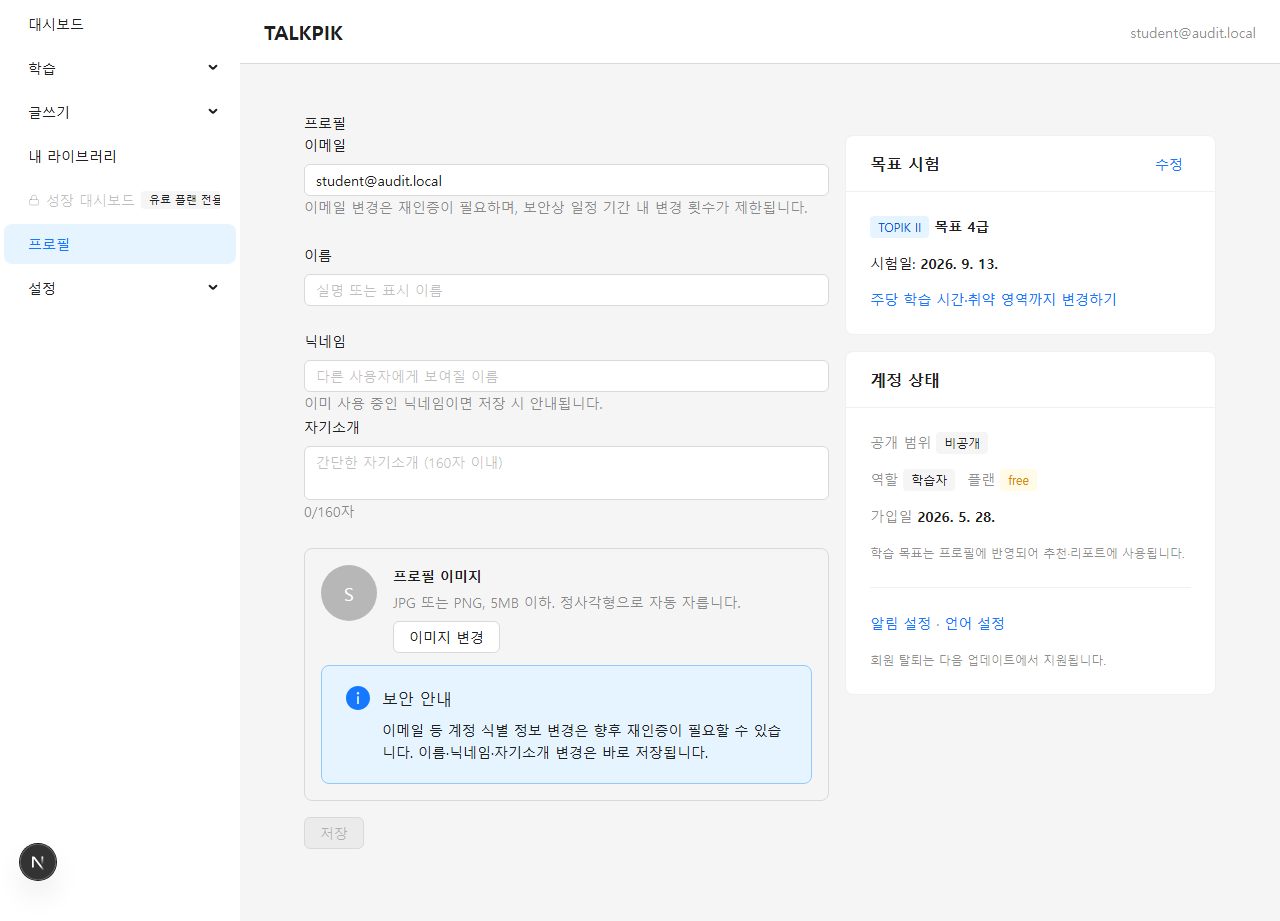
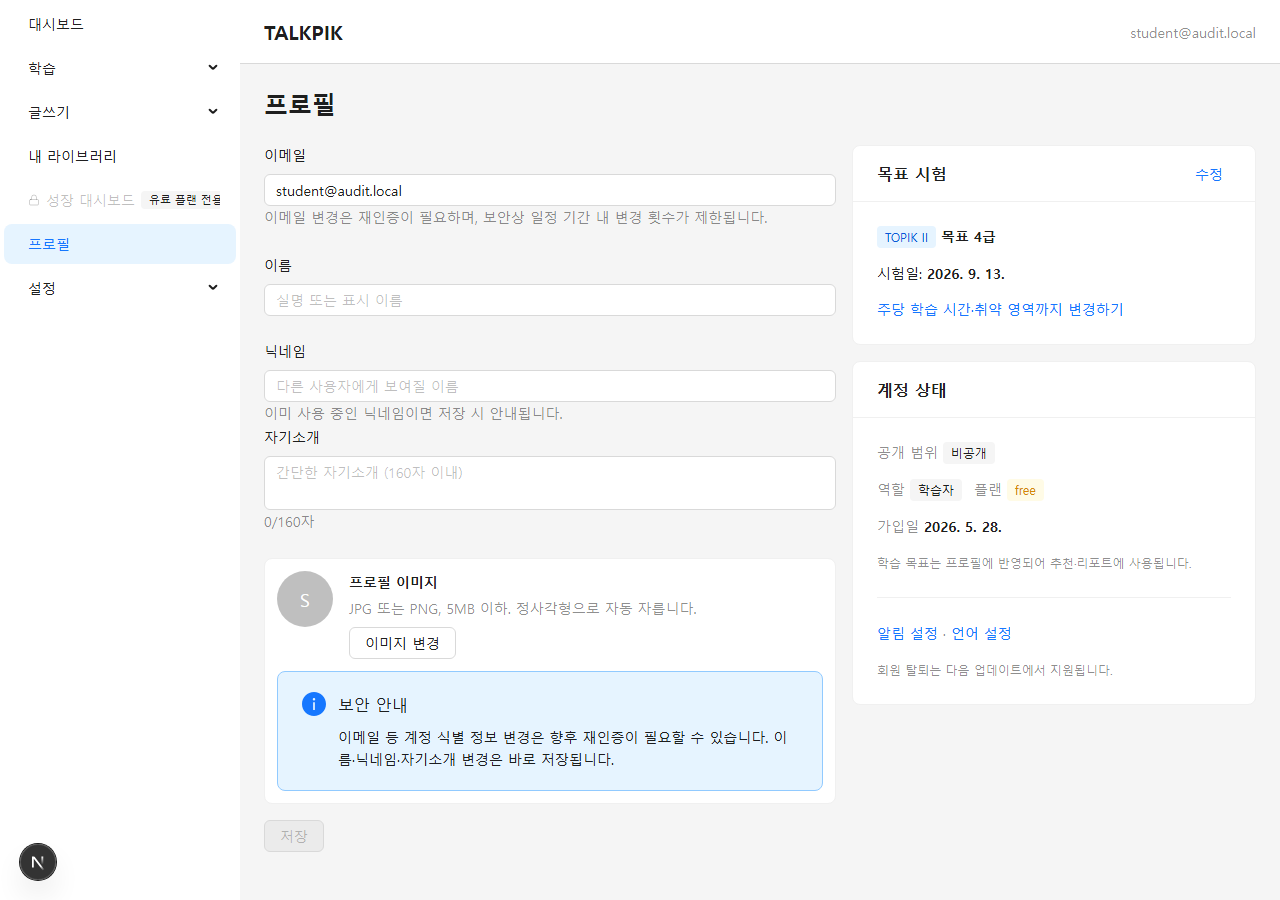
docs(ui-redesign): cluster-7 settings/profile M1 evidence + GPT-5.5 review + 9 screenshots
M1 /settings/language + /settings/notifications + /profile @360/768/1280 all ok (0 console/runtime/antd-deprecation, headSha 37ffc16). GPT-5.5 review: 0 P1 / 2 P2 (recorded). Full suite 707 pass.

diff --git a/docs/ai-workflow/runs/2026/06/05/20260605-0920-ui-redesign-cluster7-settings-profile.md b/docs/ai-workflow/runs/2026/06/05/20260605-0920-ui-redesign-cluster7-settings-profile.md
@@ -1,0 +1,61 @@
+# Context Ledger — UI Redesign Cluster 7 (settings / profile)
+
+## Run Metadata
+
+- Run id: 20260605-0920-ui-redesign-cluster7-settings-profile
+- Created: 2026-06-05 09:20 (+09:00) · Owner: Claude Code (Opus 4.8, 1M ctx) — coordinator
+- Implementation: isolated sub-agent. Human/visual review: delegated to **GPT-5.5 (codex)** with screenshots. Decisions delegated to GPT-5.5.
+- Branch: `docs/auth-overview-consolidated-reference`
+- Status: **cluster-7 verified** — M1 3 routes @360/768/1280 all ok (0 console/runtime/overlay/antd-deprecation) + static gates + full suite GREEN + GPT-5.5 review (0 P1 / 2 P2 recorded)
+
+## Task
+
+- Apply the validated design system to **settings/profile** (Cluster 7): G-01 `/settings/language`, X-09 `/settings/notifications`, X-05 `/profile`. Visual/structural ONLY.
+- Out of scope: admin (frozen); theme global tokens; no new DB schema; PaywallShell/SubscriptionShell (cluster 8); form validation/submit logic. antd deprecations already Codex-swept.
+
+## Docs Consulted
+
+- `docs/ui-redesign/PLAN.md` (§Goal/§A0/gates/공통 규칙), `DESIGN.md` (SPACING, AppCard, never card-in-card, color=meaning, one primary action).
+- `src/components/shared/{AppCard,PageHeader}.tsx`, `src/theme/spacing.ts`, `src/styles/global.css` (`.app-workspace-narrow`, `.app-card*`).
+- Wireframe specs G-01/X-09/X-05. Pages `settings/{language,notifications}/page.tsx`, `profile/page.tsx` (server).
+- `scripts/{dev-route-smoke,ai-workflow-check}.mjs`. `CLAUDE.md`, `docs/ai-development-workflow.md`.
+- Memory: project-ui-redesign-pilot-plan, project-dev-smoke-127-cross-origin-no-hydration, feedback-concurrent-agent-worktree.
+- Audience: **user** (RLS auth.uid()). Doc conflicts: none. Untouched relevant: `docs/ant-design/08-theme-architecture.md` (no theme change).
+
+## Active Files (commit `37ffc16`, 8 files)
+
+- Pages: `settings/language/page.tsx`, `settings/notifications/page.tsx`, `profile/page.tsx` — each dropped own `<main>` + bare `<h1>` → `<PageHeader>`; language/notifications → `.app-workspace-narrow`; profile kept its 2-col Row/Col data layout.
+- Components: `settings/{LanguageForm(×3),NotificationPrefsForm(×4)}`, `profile/{ExamInfoCard(×2),StatusHelpCard(×1)}` Card→AppCard; `profile/ProfileForm` hand-built avatar `<section>` bordered div → `<AppCard size="small" role="region" aria-label>` (SPACING.md gap).
+- Card→AppCard ×11; Modal→AppModal 0. NOT touched: admin, theme tokens, Paywall/Subscription shells.
+
+## Verification State
+
+- Coordinator re-ran (A0): `ai-workflow-check --check-inline-styles --check-antd-deprecations` → PASS + M4 + M6 (exit 0; no inline-number escapes). `pnpm typecheck` → 0. `pnpm lint` → 0 errors (24 pre-existing warnings; the `ProfileForm avatarPath` unused warning is pre-existing state-hook debt, not introduced). `pnpm vitest run` settings+profile → 6 files / 32 pass. `pnpm test` (full) → **707 passed | 3 skipped (99 files)**.
+- **M1 dev-route-smoke** (real dev :3000, hydrating; student.json), headSha `37ffc16` == HEAD, `/settings/language` + `/settings/notifications` + `/profile` × @360/768/1280 = 9 visits: **all ok=true, reasons=[], overlay="", pageErrors=[]**; consoleErrors = HMR-noise only → real console errors 0, **antd deprecation 0**, status 200.
+- `ai-workflow-check --check-smoke` → M3 PASS (fresh). admin diff empty.
+- **Coordinator self visual inspection** (@1280): /profile = PageHeader "프로필" h1 + 2-col (form left: email/name/nickname/bio + avatar AppCard w/ image-change + info Alert; right: 목표 시험 + 계정 상태 AppCards). language/notifications forms in `.app-workspace-narrow` with section AppCards; notifications Tabs/Switch/TimePicker/weekday CheckableTags render cleanly inside AppCards. @360 sidebar collapses to hamburger, full-width. All flat white surfaces, no card-in-card.
+- **Cross-model review: COMPLETED via GPT-5.5 (codex), 4 screenshots** (`-i settings_language-1280 settings_notifications-1280 profile-1280 profile-360`). Verdict: **MINOR ISSUES, 0 P1 / 2 P2.**
+  - On-spec (GPT-5.5): no card-in-card (Alert-in-AppCard is fine); PageHeader singular h1, no duplicate `<main>`; language/notifications sensibly constrained; profile 2-col + 360 readable, sidebar collapsed, no horizontal overflow; notifications controls clean; no loud color/shadow noise.
+  - [P2] #1 — LanguageForm help `<ul>` `paddingLeft: 18` is off the 8-scale. **RECORDED, not fixed**: pre-existing value on an untouched line; tokenizing (18→16/24) would CHANGE the visual value (PLAN rule: never change a visual value to fit a token).
+  - [P2] #2 — ProfileForm avatar `AppCard size="small"` is visually tighter than the other profile cards. **RECORDED, not fixed**: intentional compact sub-region (preserves the original `<section>` padding); default padding would change the value.
+  - (Korean copy not evaluated — unchanged + image-based judgment is mojibake-immune.)
+- UX/UI Consistency Pass: passed
+  - Tokens: no new inline magic numbers (M4 PASS); ProfileForm avatar gap uses `SPACING.md`.
+  - Components: bare antd `Card` → `AppCard` ×11; bare `<h1>` page title → `PageHeader` ×3; hand-built bordered `<section>` → `AppCard`. No Modal. No new antd deprecations (M6 PASS).
+  - A11y: 3 duplicate `<main>` dropped (Layout.Content is the landmark); PageHeader semantic `<header>`+singular h1 per page; avatar AppCard keeps `role="region"`+aria-label; aria/data-testid preserved.
+  - Responsive: M1 @360/768/1280 all ok=true; shell collapses to hamburger at 360; forms/cards stack with no horizontal scroll.
+- QA Gate: passed — real dev app M1 on 3 routes @360/768/1280 (0 console/runtime/overlay/antd-deprecation); settings+profile unit + 707 full-suite green; admin diff empty; GPT-5.5 0 P1.
+- **Deferred (honest): clean `pnpm build`** — dev reused; #130 risk ≈ 0 (pages server components; AppCard server-safe). Run when dev free.
+
+## Ledger/File-State Consistency
+
+- Commit this run: `37ffc16` (cluster-7 UI, 8 files). Evidence commit (this ledger + smoke-result.json + 9 screenshots) follows.
+- smoke-result.json headSha `37ffc16` == HEAD. A concurrent session's `.smoke-skip` is present (moot for our committed+smoked work; left untouched per multi-agent protocol).
+- Working tree after evidence commit = clean (aside from the other session's `.smoke-skip`).
+
+## Risks And Follow-Up
+
+- [P2] LanguageForm `<ul>` paddingLeft 18 (off-scale) + [P2] avatar AppCard size parity — advisory; revisit in a deliberate polish/token pass.
+- Clean prod build (un-run §Goal step) — run when dev free.
+- Multi-agent worktree: 2-3 sessions active; another left `.smoke-skip` (moot). Keep `git status` before every commit; never `git add -A`.
+- Remaining clusters: 8 paywall/subscription (X-03 /paywall, X-04 /subscription) → public/legal (X-01 /, X-13 /terms, X-14 /privacy).
